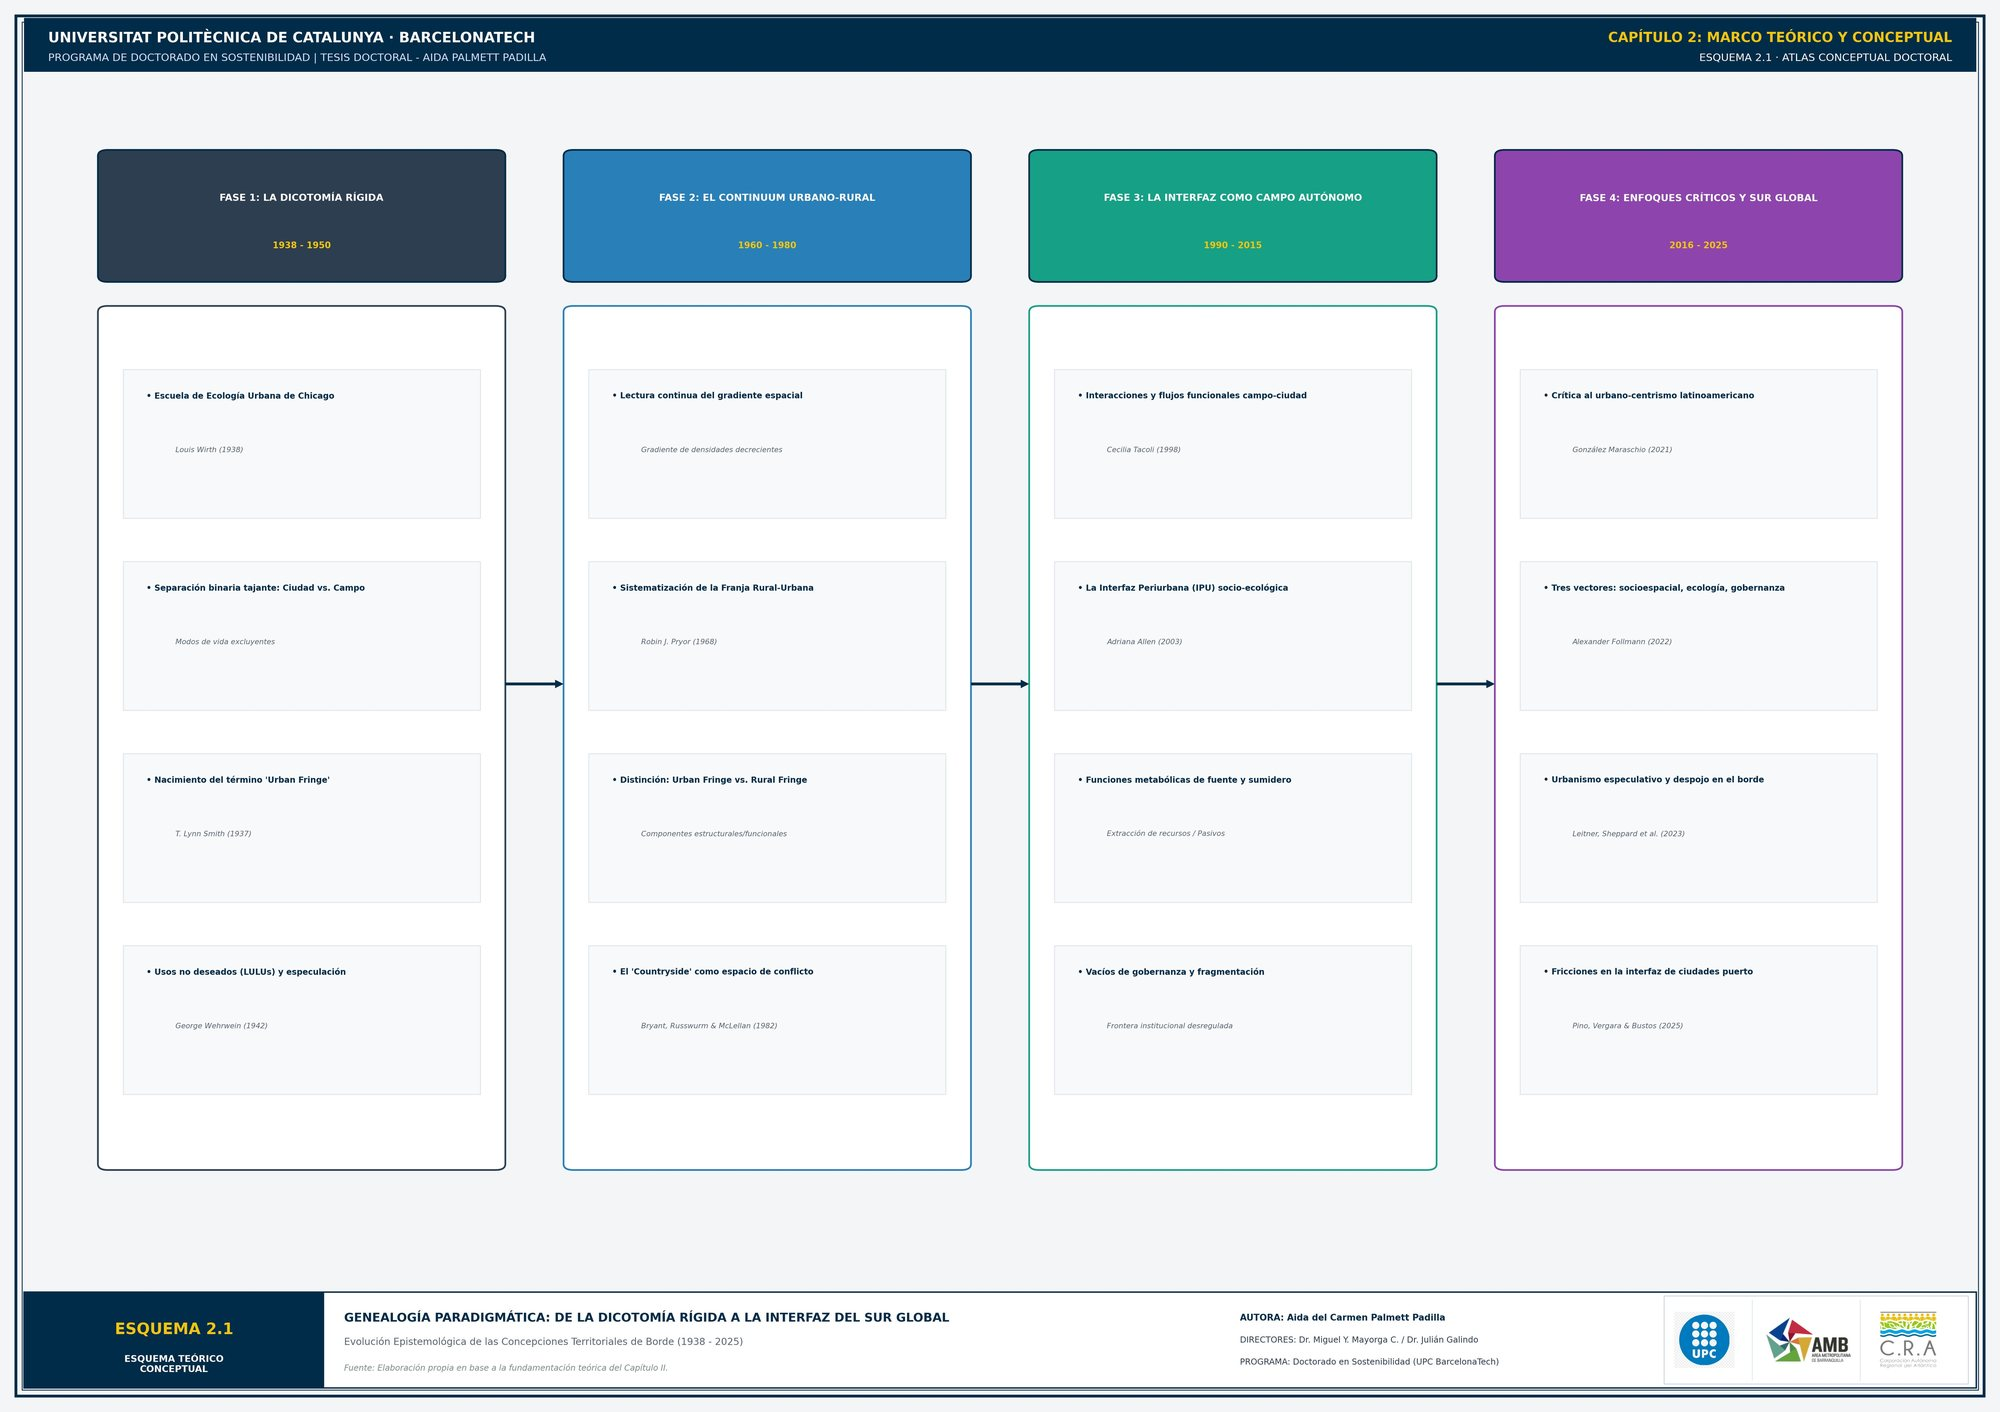
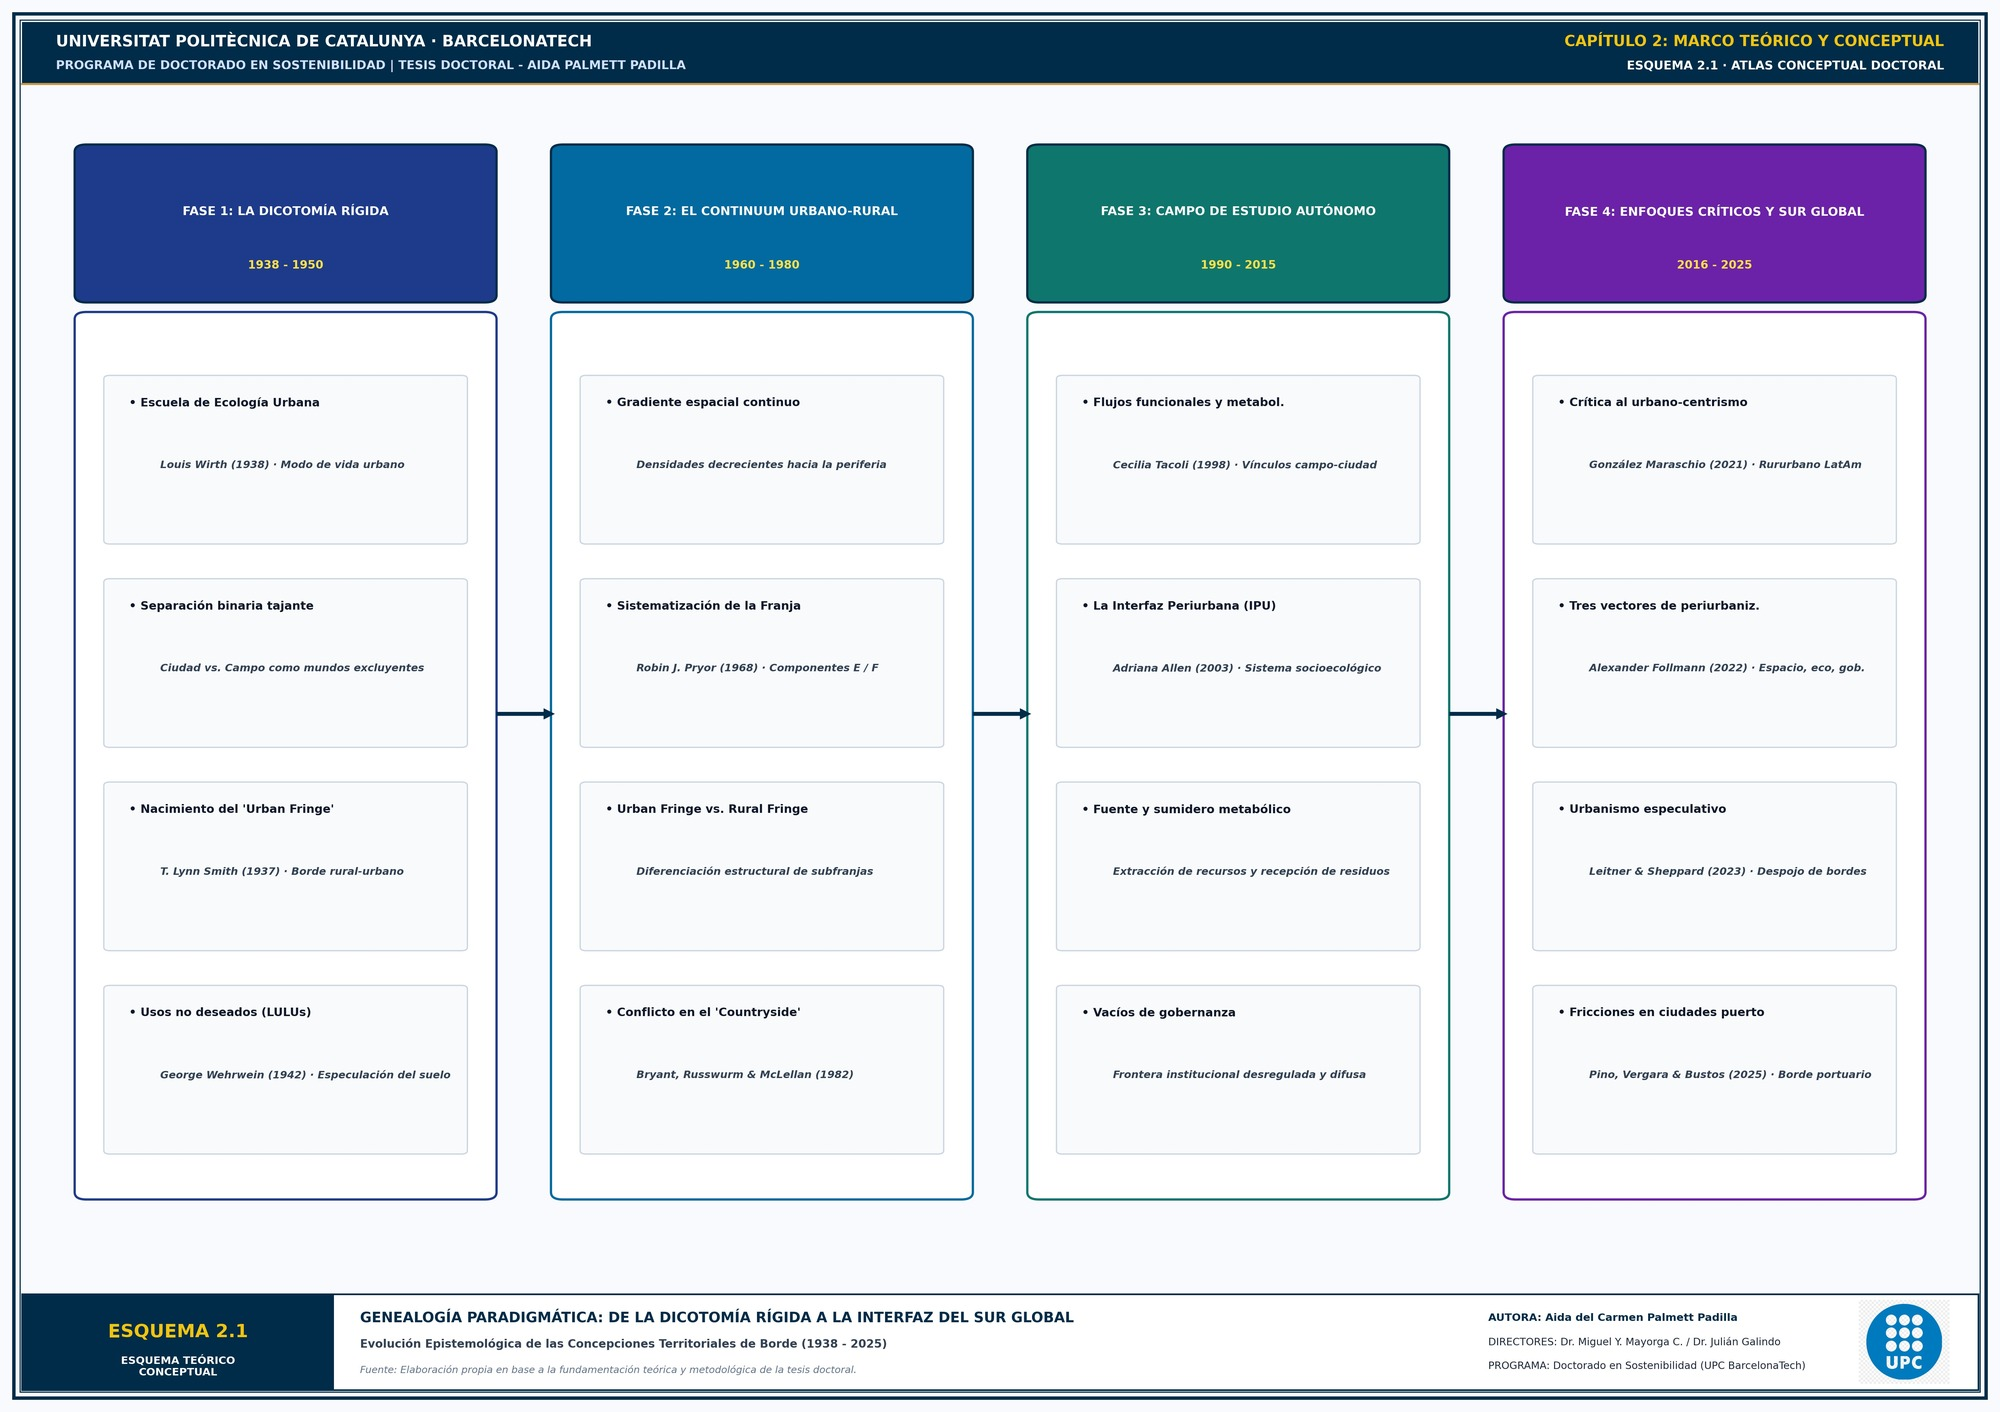
feat(visor): esquemas ultra-visibles alta legibilidad y tabla-16 sincronizada

diff --git a/data/tablas/tabla-16.html b/data/tablas/tabla-16.html
@@ -1,0 +1,1 @@
+<table><tr><th>Actores locales</th><th>Evidencia (cita)</th><th>Análisis</th></tr><tr><td>Eliet Acuña Cuadrado Ingeniera Civil – Profesional de Infraestructura COMPAS, Vía 40</td><td>&quot;Precisamente, esos nuevos proyectos son los que pueden influir con nuestro funcionamiento, porque de pronto se tiene un material que puede generar polución y podríamos tener algunos inconvenientes por ese tipo de polución. También con el transporte, con el descargue de algún producto como el Clinker, también podemos, si tenemos eso, va a crear llamados de atención por el tema de que el Clinker emite mucha polución y si esas áreas se están acercando mucho a nuestra terminal, obviamente se van a ver afectados.&quot;</td><td>La funcionaria identifica el acercamiento de asentamientos como una amenaza directa a la operación portuaria, especialmente por la incompatibilidad entre la descarga de materiales de alta polución (Clinker) y la proximidad residencial. Esta tensión opera en dos sentidos: los residentes quedan expuestos a la polución industrial, y el puerto queda expuesto a quejas y restricciones regulatorias.</td></tr><tr><td>Kevin Armando García Guzmán Ingeniero Industrial – Auxiliar Marítimo COMPAS, Vía 40</td><td>&quot;Si hemos evidenciado un crecimiento urbano de algunas áreas urbanas, básicamente lo que es la parte zona norte de Barranquilla, que se han acercado a los patios que tenemos acá donde almacenamos el carbón y el coque. Últimamente también el cambio extremo que recibió el acceso a Puerto Mocho. Ya tenemos que entrar a nuevos controles para mitigar esa afectación de acercamiento.&quot;</td><td>Kevin García precisa la localización del conflicto: los nuevos proyectos residenciales al norte de Barranquilla se acercan específicamente a los patios de carbón y coque, materiales de alto impacto ambiental. La respuesta operativa (nuevos controles de mitigación) es reactiva, no preventiva, lo que confirma la ausencia de planificación territorial anticipatoria en el corredor.</td></tr></table>
